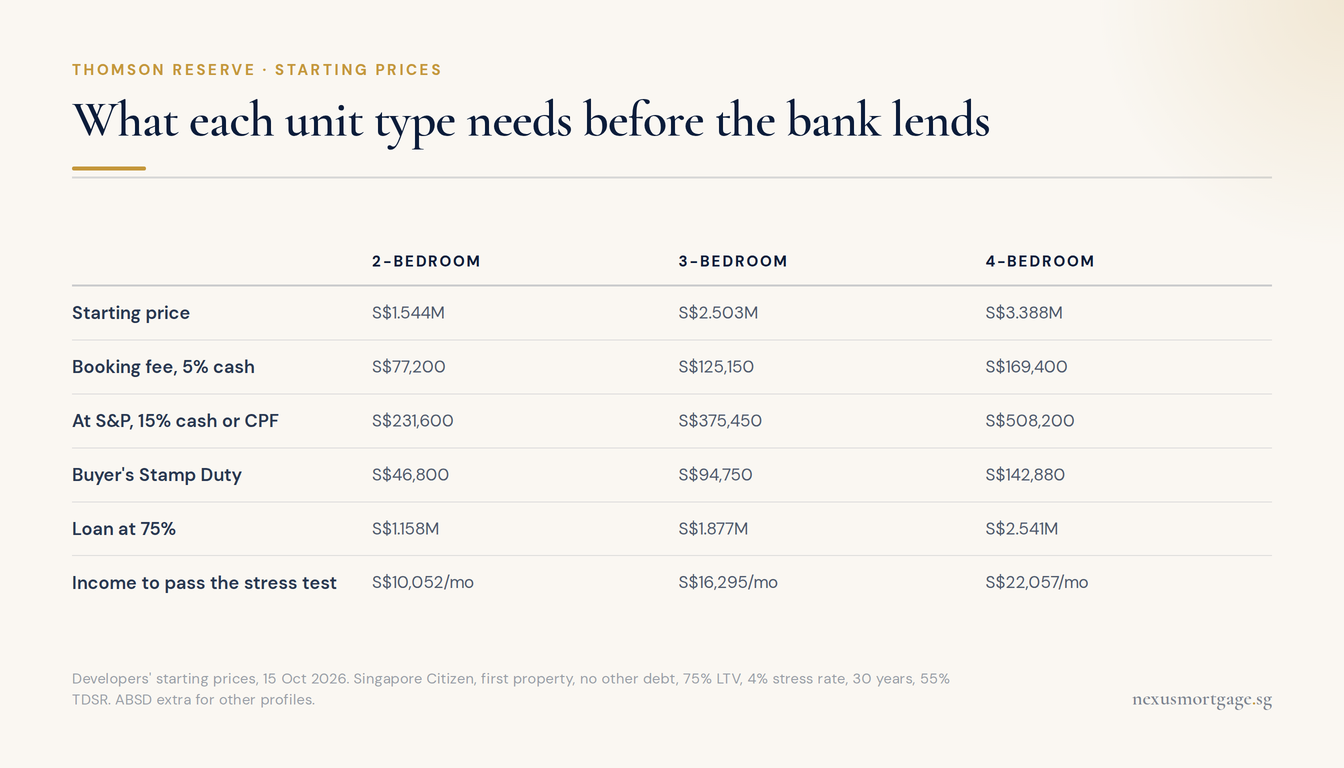
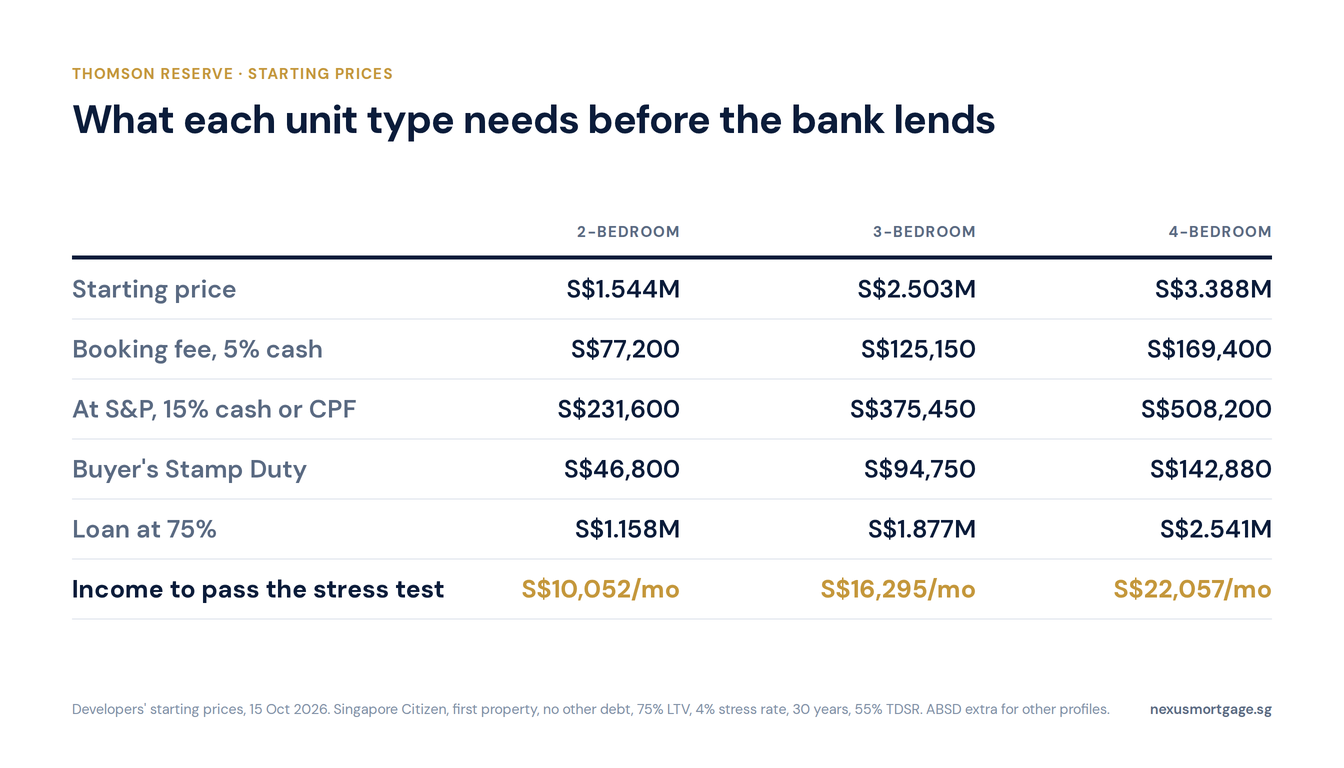
infographics: Thomson Reserve images to style B, add B timeline
Hero leads with the S$77,200 booking-day cash for the starting
2-bedroom. Long B tables get tighter rows.

diff --git a/scripts/articles/thomson_reserve.py b/scripts/articles/thomson_reserve.py
@@ -436,15 +436,16 @@ BODY = r'''
 
 IMAGES = [
  {'out': 'thomson-reserve-launch-hero',
-  'type': 'hero',
-  'kicker': 'Nexus Mortgage SG · New Launch',
+  'type': 'hero', 'style': 'b',
+  'num': 'S$77,200', 'numlabel': 'In cash on booking day for the starting 2‑bedroom at S$1.544M',
+  'kicker': 'New Launch · Thomson Reserve',
   'title': 'Thomson Reserve: from S$2,608 psf. Booking day 31 October.',
   'sub': 'What each unit type needs in cash, stamp duty and income, and how the loan is drawn down to '
          'TOP in the second half of 2030.',
   'chips': ['2-bedroom from S$1.544M', '1,268 units, 99-year', 'Calculator inside']},
 
  {'out': 'thomson-reserve-cash-tiers',
-  'type': 'compare',
+  'type': 'compare', 'style': 'b',
   'kicker': 'Thomson Reserve · Starting prices',
   'title': 'What each unit type needs before the bank lends',
   'cols': ['2-Bedroom', '3-Bedroom', '4-Bedroom'],
@@ -453,7 +454,7 @@ IMAGES = [
            {'label': 'At S&P, 15% cash or CPF', 'cells': ['S$231,600', 'S$375,450', 'S$508,200']},
            {'label': "Buyer's Stamp Duty", 'cells': ['S$46,800', 'S$94,750', 'S$142,880']},
            {'label': 'Loan at 75%', 'cells': ['S$1.158M', 'S$1.877M', 'S$2.541M']},
-           {'label': 'Income to pass the stress test', 'cells': ['S$10,052/mo', 'S$16,295/mo', 'S$22,057/mo']}],
+           {'label': 'Income to pass the stress test', 'cells': ['S$10,052/mo', 'S$16,295/mo', 'S$22,057/mo'], 'highlight': True}],
   'source': "Developers' starting prices, 15 Oct 2026. Singapore Citizen, first property, no other debt, "
             '75% LTV, 4% stress rate, 30 years, 55% TDSR. ABSD extra for other profiles.',
   'anchor': 'cash',
@@ -462,7 +463,7 @@ IMAGES = [
   'caption': 'The 5% booking fee is the only part that must be cash on the day. The stress test decides the rest.'},
 
  {'out': 'thomson-progressive-timeline',
-  'type': 'timeline',
+  'type': 'timeline', 'style': 'b',
   'kicker': 'Thomson Reserve · Progressive payments',
   'title': 'From booking day to keys: when each payment falls',
   'source': 'Expected TOP 2H 2030 and vacant possession by 28 Feb 2031, per the developers. Construction '
@@ -470,7 +471,7 @@ IMAGES = [
   'steps': [{'when': '31 Oct 2026', 'label': 'Booking (OTP)', 'note': '5% of price, in cash'},
             {'when': 'Within 8 weeks', 'label': 'S&P exercised', 'note': '15%, cash or CPF; stamp duty in 14 days'},
             {'when': 'During construction', 'label': 'Foundation to roads', 'note': '45% in stages; loan starts drawing'},
-            {'when': '2H 2030', 'label': 'TOP', 'note': '25%, the largest single drawdown'},
+            {'when': '2H 2030', 'label': 'TOP', 'note': '25%, the largest single drawdown', 'highlight': True},
             {'when': 'After TOP', 'label': 'CSC', 'note': 'Final 15%'}],
   'anchor': 'progressive',
   'alt': 'Timeline of Thomson Reserve progressive payments from the 31 October 2026 booking day to TOP '

diff --git a/scripts/build-article-infographics.py b/scripts/build-article-infographics.py
@@ -424,6 +424,8 @@ tr.hl td{color:$NAVY;font-weight:700}
 tr.hl td:not(:first-child){color:$GOLD}
 """
     fs = 25 if len(s["cols"]) <= 4 else 21
+    if len(s["rows"]) > 4:  # long tables: tighter rows so the header clears the title
+        css += "td{padding-top:13px;padding-bottom:13px}"
     css += f"table{{font-size:{fs}px;table-layout:fixed}} th,td{{white-space:nowrap}} th:first-child{{width:{26 if len(s['cols']) <= 4 else 18}%}}"
     head = "".join(f"<th>{_shell(c)}</th>" for c in s["cols"])
     body = ""
@@ -454,7 +456,29 @@ def b_math(s):
     return _b_page(s, rows + tot, css)
 
 
-B_TEMPLATES = {"hero": b_hero, "stat": b_stat, "compare": b_compare, "math": b_math}
+def b_timeline(s):
+    """Steps left to right under a continuous rule. steps: [{when,label,note?,highlight?}]"""
+    n = len(s["steps"])
+    css = f"""
+.tl{{display:grid;grid-template-columns:repeat({n},1fr);gap:0;border-top:6px solid $NAVY}}
+.st{{padding:22px 22px 0 0;position:relative}}
+.st::before{{content:'';position:absolute;top:-15px;left:0;width:24px;height:24px;background:$NAVY}}
+.st.hl::before{{background:$GOLD}}
+.w{{font-size:{30 if n <= 5 else 24}px;font-weight:700;letter-spacing:-.02em;line-height:1.1}}
+.st.hl .w{{color:$GOLD}}
+.lb{{font-size:18px;font-weight:700;margin-top:12px}}
+.nt{{font-size:16px;color:#5a6a82;margin-top:8px;line-height:1.45}}
+"""
+    steps = ""
+    for st in s["steps"]:
+        hl = " hl" if st.get("highlight") else ""
+        note = f'<div class="nt">{_shell(st["note"])}</div>' if st.get("note") else ""
+        steps += (f'<div class="st{hl}"><div class="w">{_shell(st["when"])}</div>'
+                  f'<div class="lb">{_shell(st["label"])}</div>{note}</div>')
+    return _b_page(s, f'<div class="tl">{steps}</div>', css)
+
+
+B_TEMPLATES = {"hero": b_hero, "stat": b_stat, "compare": b_compare, "math": b_math, "timeline": b_timeline}
 
 
 def build_html(spec):
